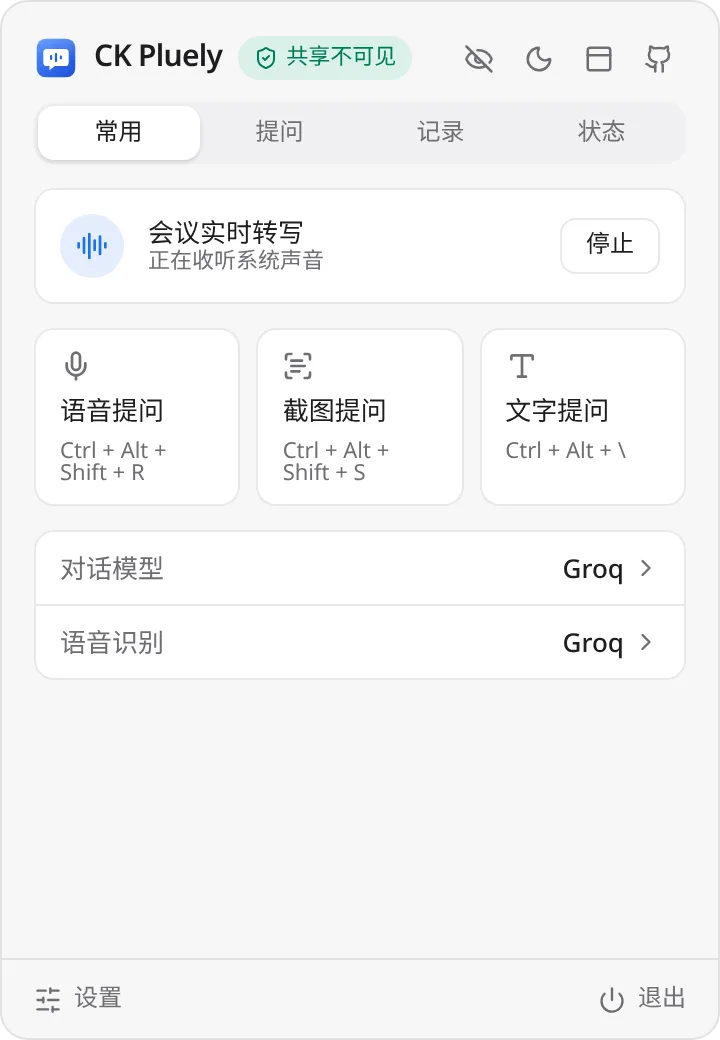
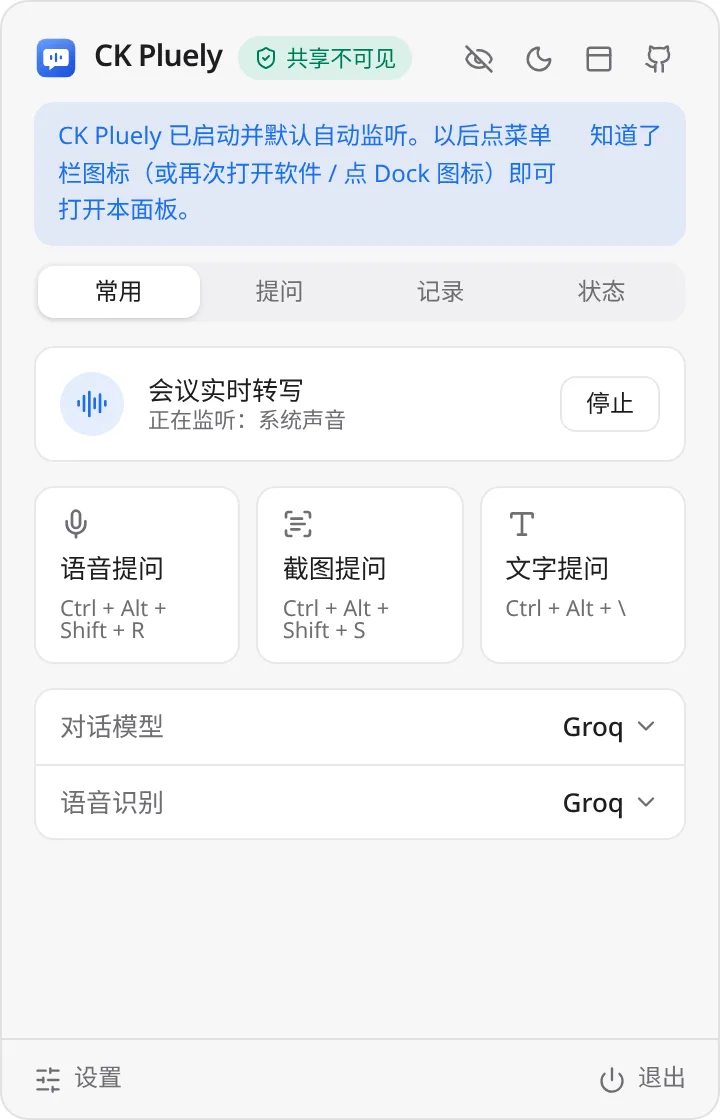
v2.1.1: docs, changelog, screenshots, remove GIFs, harden backup list

diff --git a/src/pages/settings/components/Backup.tsx b/src/pages/settings/components/Backup.tsx
@@ -56,7 +56,7 @@ export const Backup = () => {
   const [autos, setAutos] = useState<{ path: string; name: string; bytes: number; createdAt: number }[]>([]);
 
   useEffect(() => {
-    listAutoBackups().then(setAutos).catch(() => setAutos([]));
+    listAutoBackups().then((v) => setAutos(Array.isArray(v) ? v : [])).catch(() => setAutos([]));
   }, [done, msg]);
 
   const pwProblem = withKeys && (pw.length < 6 ? "口令至少 6 位" : pw !== pw2 ? "两次口令不一致" : "");

diff --git a/RELEASE_NOTES.zh-CN.md b/RELEASE_NOTES.zh-CN.md
@@ -1,20 +1,18 @@
-# CK Pluely v2.1.0 发布说明
+# CK Pluely v2.1.1 发布说明
 
-## v2.1.0 — 打开即监听、启动修复、备份与恢复、更快更省
-- 修复「打开软件没有任何反应」：启动后直接弹出面板并提示以后从菜单栏图标打开；软件已在后台运行时，再次打开、点 Dock 图标或在访达中打开都会调出面板（此前只切换悬浮条）；面板在获得焦点前不会因失焦被立即收起；菜单栏图标创建失败时自动改为显示 Dock / 任务栏图标并提示；「一键隐藏」只影响共享画面，重新打开软件会恢复窗口；控制台关闭或释放不会退出程序；引导 / 控制台窗口打开时激活到前台并居中
-- 启动日志与错误提示：启动过程写入日志（macOS `~/Library/Logs/io.github.cknb6.ckpluely/startup.log`，Windows `%LOCALAPPDATA%\io.github.cknb6.ckpluely\logs`，Linux `~/.local/share/io.github.cknb6.ckpluely/logs`），初始化失败或崩溃时弹出系统对话框说明原因，不再静默退出
-- 打开即监听（默认开启，设置 →「启动后自动监听」可关闭）：自动识别腾讯会议、钉钉、飞书、企业微信、QQ、微信、Zoom、Teams、Webex、华为云 WeLink；macOS 14.4+ 只采集会议软件的声音（进程级 tap），Windows 10 2004+ 使用进程环回，其余情况退回系统全部声音；会议开始 / 结束 / 切换时自动切换（防抖 2.5 秒）；面板显示「正在监听：腾讯会议」，一键停止。共享模式采集，不占用会议软件的麦克风与回声消除
-- 稳定性：音频驱动层异常被拦截为错误并自动重试，不会让程序崩溃；锁中毒自动恢复；自动监听、快捷键、会议切换共用一条启动队列，杜绝重复启动；界面组件出错时显示「重试 / 重新加载」而非空白窗口；不会重复创建菜单栏图标
-- 备份与恢复：设置 →「备份与恢复」导出单个 `.ckbak`（zip，内含 manifest：应用、格式版本、应用版本、时间、逐文件 SHA-256；设置 JSON、SQLite 记录快照（VACUUM INTO）、提示词、声纹；模型文件可选）。API Key 默认不导出；设置口令后用 PBKDF2-SHA256（31 万次）+ AES-256-GCM 加密一并导出。恢复前先校验并显示差异预览，自动保存一份安全备份，失败自动回滚；旧格式设置自动迁移
-- 升级前自动备份：检测到版本变化时，在新版本改写数据之前导出 pre-upgrade 备份，保留最近 5 份
-- 更快：请求改走 Rust 端连接池（HTTP/2、keep-alive、TCP_NODELAY），流式结果通过通道直接推给界面；启动、切回窗口、开始监听时预热服务商连接（DNS / TLS）。实测 Groq 首字时间中位数 863 ms → 397 ms，整段回答 1234 ms → 725 ms
-- 更省：按模式限制输出长度（会议助手 900、简短 700、标准 1400、自动 3000），gpt-oss / o 系列 / gpt-5 使用低推理强度，较早的历史压缩为要点行；截图长边缩到 1568 px。实测每次回答输出 410 → 184 tokens（推理 257 → 23）
-- 修复：会议助手的历史消息此前按「最新在前」发送，导致模型看到的对话顺序颠倒
-- 用量显示：回答下方显示本次与本会话的输入 / 输出 tokens（含缓存命中）与首字时间，服务商不返回用量时按估算显示
-- 课堂与场景提示词：上课预设第一行加粗给结论、最多 3 点、关键词用 ==高亮==、150 字以内；科目新增地理、政治（共 10 科）；面试与会议预设同样结论优先
-- 渲染：支持 `==高亮==`，结论行与标题高对比度显示（浅色 / 深色）
-- 内存：各窗口按需加载页面代码；控制台隐藏 5 分钟后释放其 WebView，再次打开时重建
-- 测试：前端 93 项单元测试；Groq 在线连接池基准（新连接首字 215 ms → 复用 123 ms）
+## v2.1.1 — 多 Key 轮换、面板切模型、应用内自动更新、扫一眼版式
+- 多 Key 轮换：每个服务商可填多个 API Key（可增删、排序）；遇到限流（429）、额度用完、认证失败自动冷却并换下一个，可选轮询使用；Key 只存系统钥匙串，备份口令加密时一并导出
+- 菜单栏面板直接切换对话模型和语音识别：服务商、模型一点即换，下一次请求立即生效，重启后保留，悬浮条和控制台同步；切换服务商不再清空已填的 Key 和模型
+- 面板全部按钮逐项检查并加自动化测试；提问页「新的一节课」改为面板内二次确认，屏蔽右键菜单（原生菜单 / 对话框会被共享画面看到）；历史记录点开直接进入该对话
+- 内置提示词库：课堂各科、概念讲解、会议、会议纪要、面试、技术面试、同声翻译、要点摘要、回复建议，可直接使用、编辑、恢复默认，随备份导出
+- 导入技能包：支持 .json 提示词包和 Agent Skills 风格的 SKILL.md，只导入文字提示词，不运行脚本、不联网，有大小和条数限制
+- 扫一眼版式：回答先显示一句结论和最多 4 条要点，其余细节折叠，点「展开详情」查看；流式输出时上方内容不跳动
+- 网页会议识别：浏览器里的腾讯会议网页版、Google Meet、Zoom、Teams、飞书、钉钉等会议按窗口标题识别（每 15 秒检查一次）
+- 自动监听时同时打开老师的麦克风（语音提问），设置里可关
+- 点击穿透：⌘⌥⇧T / Ctrl+Alt+Shift+T 让鼠标直接点到下面的会议软件，再按一次恢复
+- 应用内自动更新：使用本项目自己的签名密钥，从 GitHub Releases 的 latest.json 检查；启动 1 分钟后和每 6 小时检查一次，设置 → 显示里可关闭、可手动检查；只显示一个小图标，不弹窗；正在监听 / 上课时不安装（可选择「仍然现在更新」）；记录、设置、Key 全部保留
+- 安全：修复配置路径写入的原型污染；npm 与 Rust 依赖安全更新（兼容版本）
+- 测试：前端 116 项单元测试，Rust 41 项
 
 ### 下载
 - macOS：`aarch64`（Apple 芯片）/ `x64`（Intel）的 `.dmg` 或 `.pkg`；未公证，首次执行 `xattr -cr "/Applications/CK Pluely.app"`

diff --git a/README.en.md b/README.en.md
@@ -2,7 +2,7 @@
 
 [简体中文](./README.md) | **English**
 
-A real-time assistant for interviews, classroom Q&A and meetings: it captures the other side's audio, transcribes it live, detects questions and answers briefly, conclusion first. Every window is content-protected so screen sharing does not show it. Fork of Pluely v0.1.9 (Srikanth Nani, GPL-3.0), maintained by CKNB — <https://github.com/CKNB888/ck-pluely>. Current version **v2.1.0** (macOS, Windows, Linux).
+A real-time assistant for interviews, classroom Q&A and meetings: it captures the other side's audio, transcribes it live, detects questions and answers briefly, conclusion first. Every window is content-protected so screen sharing does not show it. Fork of Pluely v0.1.9 (Srikanth Nani, GPL-3.0), maintained by CKNB — <https://github.com/CKNB888/ck-pluely>. Current version **v2.1.1** (macOS, Windows, Linux).
 
 ## Features
 - Menu-bar / tray panel (Home, Questions, Notes, Status) or floating bar
@@ -10,12 +10,13 @@ A real-time assistant for interviews, classroom Q&A and meetings: it captures th
 - Voiceprint: your own speech never triggers answers
 - Classroom mode: bold conclusion line, at most 3 points, ==highlights==, 10 subject presets, LaTeX and code
 - Question list with export; screenshot, voice and text questions; many chat providers
+- **v2.1.1** multi-key rotation per provider; switch provider/model/transcription from the menu-bar panel; built-in prompt library and text-only skill-pack import (.json / SKILL.md, no scripts); glance layout (conclusion, 2–4 points, folded details); browser meeting detection; teacher-mic toggle; click-through hotkey (Cmd/Ctrl+Alt+Shift+T); signed in-app auto-update (launch + every 6 h, can be turned off, never installs while listening, data kept)
 - **v2.1.0** pooled HTTP/2 client with prewarm (Groq median time-to-first-token 863 → 397 ms), per-mode output caps and low reasoning effort (output tokens per answer 410 → 184), usage badge
 - **v2.1.0** auto-listen on launch with meeting-app detection (Tencent Meeting, DingTalk, Feishu, WeCom, Zoom, Teams…; per-process capture on macOS 14.4+ / Windows 10 2004+), panel shows the source; fixed "nothing happens on launch" (panel shows on launch/reopen, startup log + error dialogs)
 - **v2.1.0** backup and restore: `.ckbak` with manifest and SHA-256 checksums, diff preview, safety backup and rollback, optional password-encrypted API keys, automatic backup before upgrades
 
 ## Install / upgrade
-Download from [Releases](https://github.com/CKNB888/ck-pluely/releases): macOS `.dmg`/`.pkg` (`xattr -cr "/Applications/CK Pluely.app"` on first run), Windows `.exe`/`.msi`, Linux `.deb`/`.rpm`/`.AppImage`. Upgrades install over the old version; v2.1.0+ makes a pre-upgrade backup automatically (last 5 kept).
+Download from [Releases](https://github.com/CKNB888/ck-pluely/releases): macOS `.dmg`/`.pkg` (`xattr -cr "/Applications/CK Pluely.app"` on first run), Windows `.exe`/`.msi`, Linux `.deb`/`.rpm`/`.AppImage`. Since v2.1.1 the app updates itself (signed, Settings → Display → install; can be turned off). Manual upgrades install over the old version; v2.1.0+ makes a pre-upgrade backup automatically (last 5 kept).
 
 ## Backup / uninstall
 Settings → Backup & restore. Uninstall: Settings → Full uninstall; Windows uninstaller; `apt purge` / `dnf remove`; macOS `scripts/uninstall-macos.command`.
@@ -27,7 +28,7 @@ Toggle `Ctrl+Alt+\` (`⌘⌥\`) · Screenshot `Ctrl+Alt+Shift+S` · Voice `Ctrl+
 Audio goes only to the speech provider you configure (or nowhere with local STT); screenshots only when you ask; history, voiceprint stay local; keys in the OS keychain; no telemetry or auto-update.
 
 ## Changelog
-See [CHANGELOG.zh-CN.md](./CHANGELOG.zh-CN.md) (Chinese), v1.0.0 → v2.1.0.
+See [CHANGELOG.zh-CN.md](./CHANGELOG.zh-CN.md) (Chinese), v1.0.0 → v2.1.1.
 
 ## Sponsorship & Ads
 WeChat **1837620622**.

diff --git a/README.md b/README.md
@@ -21,6 +21,13 @@
 | 打开即监听（v2.1.0） | 自动识别腾讯会议、钉钉、飞书、企业微信、Zoom、Teams 等，优先只采集会议软件的声音；面板显示「正在监听：腾讯会议」 |
 | 备份与恢复（v2.1.0） | `.ckbak` 单文件，校验 + 差异预览 + 失败回滚，可加密包含 API Key；升级前自动备份 |
 | 隐私 | 内容保护、隐私状态指示、一键隐藏全部窗口 |
+| 多 Key 轮换（v2.1.1） | 每个服务商可填多个 Key，限流 / 额度用完 / 认证失败自动换下一个 |
+| 面板切模型（v2.1.1） | 菜单栏面板直接切换服务商、对话模型和语音识别，立即生效 |
+| 提示词库与技能包（v2.1.1） | 内置课堂、会议、面试、翻译等提示词；可导入 .json 或 SKILL.md 文字技能包（不运行脚本） |
+| 扫一眼版式（v2.1.1） | 先结论、再 2–4 条要点，细节折叠；流式输出不跳动；字号、透明度可调 |
+| 网页会议与老师麦克风（v2.1.1） | 识别浏览器里的会议网页；自动监听时可同时打开麦克风 |
+| 点击穿透（v2.1.1） | ⌘⌥⇧T / Ctrl+Alt+Shift+T 让鼠标穿过悬浮条点到会议软件 |
+| 自动更新（v2.1.1） | 签名校验的应用内更新，启动和每 6 小时检查，可关闭；监听 / 上课中不安装，数据全部保留 |
 | 完全卸载 | 应用内一键删除；各平台卸载程序同步清理 |
 
 ## 界面截图
@@ -29,7 +36,9 @@
 |---|---|
 | <img src="docs/screenshots/v2/panel-home.webp" width="400"><br>面板：常用 | <img src="docs/screenshots/v2/panel-questions.webp" width="400"><br>面板：提问列表 |
 | <img src="docs/screenshots/v2/panel-questions-dark.webp" width="400"><br>深色模式 | <img src="docs/screenshots/v2/settings-local-speech.webp" width="400"><br>本地语音识别与配置建议 |
-| <img src="docs/screenshots/v2/settings-display.webp" width="400"><br>显示：字号、屏幕、检查更新 | <img src="docs/screenshots/v2/onboarding-voiceprint.webp" width="400"><br>首次引导：录入你的声音 |
+| <img src="docs/screenshots/v2/settings-display.webp" width="400"><br>显示：字号、屏幕、自动更新 | <img src="docs/screenshots/v2/onboarding-voiceprint.webp" width="400"><br>首次引导：录入你的声音 |
+| <img src="docs/screenshots/v2/panel-models.webp" width="400"><br>面板：切换模型 | <img src="docs/screenshots/v2/prompts-builtin.webp" width="400"><br>内置提示词库 |
+| <img src="docs/screenshots/v2/prompts-skill-import.webp" width="400"><br>导入技能包 | |
 
 ## 安装
 
@@ -65,7 +74,7 @@
 
 ## 升级
 
-直接安装新版本覆盖即可，记录与设置保留。v2.1.0 起，首次启动新版本时会在改写任何数据前自动导出一份升级前备份（保留最近 5 份，可在「设置 → 备份与恢复」中查看）。
+v2.1.1 起应用内自动更新：发现新版本时只在角落显示提示，到「设置 → 显示」点击安装即可（签名校验，记录、设置、Key 全部保留；正在监听时不会安装）。也可以直接下载新安装包覆盖安装。v2.1.0 起，首次启动新版本时会在改写任何数据前自动导出一份升级前备份（保留最近 5 份，可在「设置 → 备份与恢复」中查看）。
 
 ## 备份与恢复
 
@@ -104,6 +113,7 @@
 
 每个版本的详细改动见 [CHANGELOG.zh-CN.md](./CHANGELOG.zh-CN.md)。
 
+- **v2.1.1** 多 Key 轮换、面板切模型、提示词库与技能包、扫一眼版式、网页会议、点击穿透、应用内自动更新
 - **v2.1.0** 打开即监听（自动识别会议软件）、修复启动无反应、备份与恢复、更快更省、课堂要点优先
 - **v2.0.0** 本地识别、声纹、上课模式、提问列表
 - **v1.0.7** 菜单栏面板、新图标、界面重写

diff --git a/CHANGELOG.zh-CN.md b/CHANGELOG.zh-CN.md
@@ -1,5 +1,19 @@
 # 更新日志
 
+## v2.1.1 — 多 Key 轮换、面板切模型、应用内自动更新、扫一眼版式
+- 多 Key 轮换：每个服务商可填多个 API Key（可增删、排序）；遇到限流（429）、额度用完、认证失败自动冷却并换下一个，可选轮询使用；Key 只存系统钥匙串，备份口令加密时一并导出
+- 菜单栏面板直接切换对话模型和语音识别：服务商、模型一点即换，下一次请求立即生效，重启后保留，悬浮条和控制台同步；切换服务商不再清空已填的 Key 和模型
+- 面板全部按钮逐项检查并加自动化测试；提问页「新的一节课」改为面板内二次确认，屏蔽右键菜单（原生菜单 / 对话框会被共享画面看到）；历史记录点开直接进入该对话
+- 内置提示词库：课堂各科、概念讲解、会议、会议纪要、面试、技术面试、同声翻译、要点摘要、回复建议，可直接使用、编辑、恢复默认，随备份导出
+- 导入技能包：支持 .json 提示词包和 Agent Skills 风格的 SKILL.md，只导入文字提示词，不运行脚本、不联网，有大小和条数限制
+- 扫一眼版式：回答先显示一句结论和最多 4 条要点，其余细节折叠，点「展开详情」查看；流式输出时上方内容不跳动
+- 网页会议识别：浏览器里的腾讯会议网页版、Google Meet、Zoom、Teams、飞书、钉钉等会议按窗口标题识别（每 15 秒检查一次）
+- 自动监听时同时打开老师的麦克风（语音提问），设置里可关
+- 点击穿透：⌘⌥⇧T / Ctrl+Alt+Shift+T 让鼠标直接点到下面的会议软件，再按一次恢复
+- 应用内自动更新：使用本项目自己的签名密钥，从 GitHub Releases 的 latest.json 检查；启动 1 分钟后和每 6 小时检查一次，设置 → 显示里可关闭、可手动检查；只显示一个小图标，不弹窗；正在监听 / 上课时不安装（可选择「仍然现在更新」）；记录、设置、Key 全部保留
+- 安全：修复配置路径写入的原型污染；npm 与 Rust 依赖安全更新（兼容版本）
+- 测试：前端 116 项单元测试，Rust 41 项
+
 ## v2.1.0 — 打开即监听、启动修复、备份与恢复、更快更省
 - 修复「打开软件没有任何反应」：启动后直接弹出面板并提示以后从菜单栏图标打开；软件已在后台运行时，再次打开、点 Dock 图标或在访达中打开都会调出面板（此前只切换悬浮条）；面板在获得焦点前不会因失焦被立即收起；菜单栏图标创建失败时自动改为显示 Dock / 任务栏图标并提示；「一键隐藏」只影响共享画面，重新打开软件会恢复窗口；控制台关闭或释放不会退出程序；引导 / 控制台窗口打开时激活到前台并居中
 - 启动日志与错误提示：启动过程写入日志（macOS `~/Library/Logs/io.github.cknb6.ckpluely/startup.log`，Windows `%LOCALAPPDATA%\io.github.cknb6.ckpluely\logs`，Linux `~/.local/share/io.github.cknb6.ckpluely/logs`），初始化失败或崩溃时弹出系统对话框说明原因，不再静默退出
